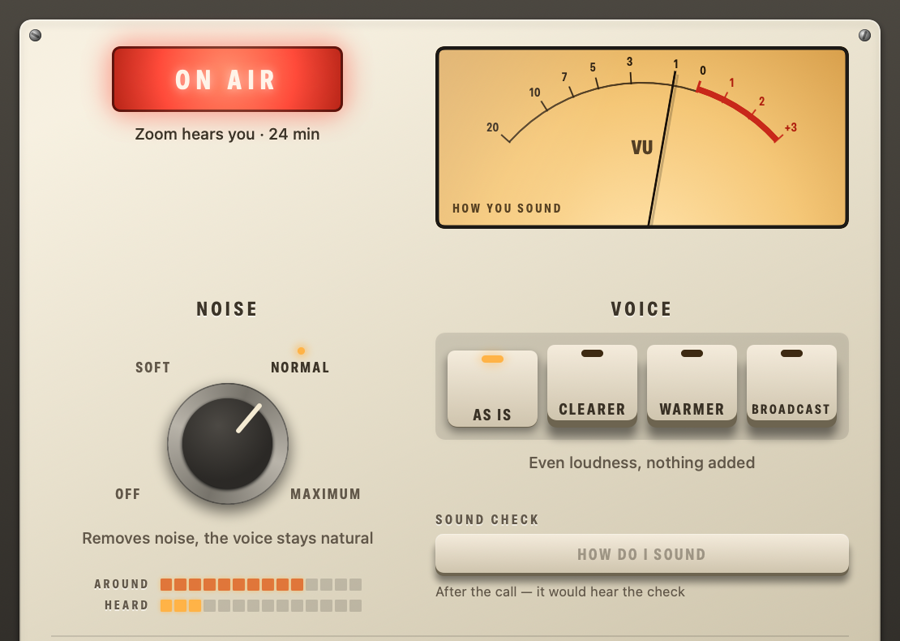
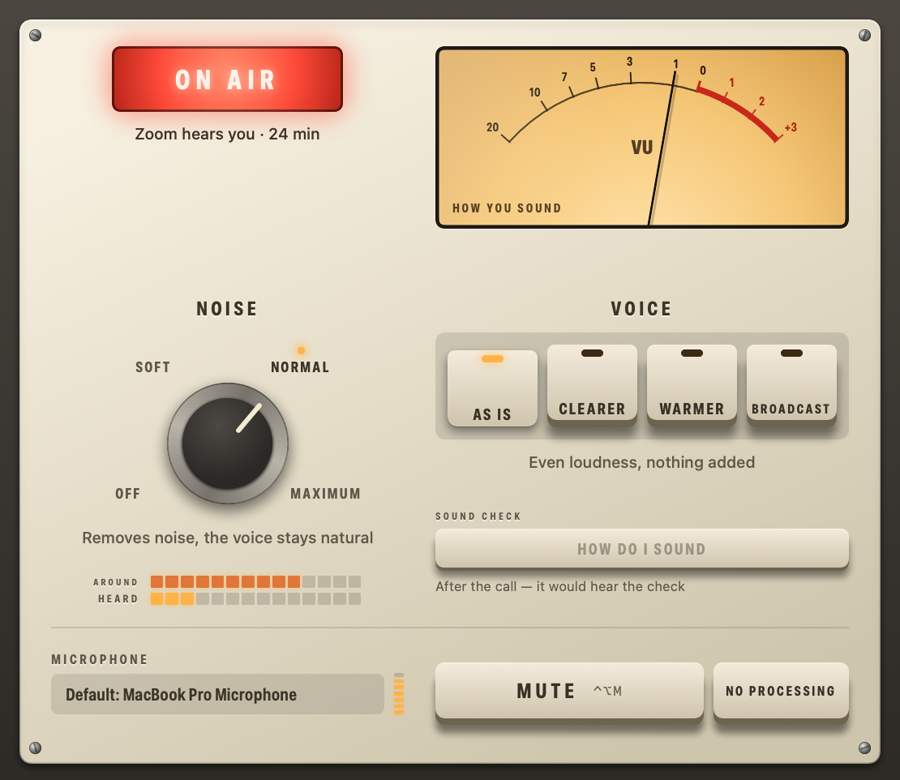
Wide link previews, the whole app panel, and app-sized keys

diff --git a/index.html b/index.html
@@ -3,11 +3,18 @@
 <head>
 <meta charset="utf-8">
 <meta name="viewport" content="width=device-width, initial-scale=1, viewport-fit=cover">
-<meta name="description" content="Kelvin is a microphone for calls on your Mac: it removes background noise and gives your voice a warm, close tone in Zoom, Meet and Teams.">
-<meta property="og:title" content="Kelvin: sound 2700K">
-<meta property="og:description" content="Kelvin is a microphone for calls on your Mac: it removes background noise and gives your voice a warm, close tone in Zoom, Meet and Teams.">
-<meta property="og:image" content="https://kelvinmic.app/app-panel.png">
+<meta name="description" content="A microphone for calls on your Mac. Removes background noise and gives your voice a warm, close tone in Zoom, Meet and Teams.">
+<meta property="og:type" content="website">
+<meta property="og:site_name" content="Kelvin">
+<meta property="og:title" content="Kelvin: Sound 2700K">
+<meta property="og:description" content="A microphone for calls on your Mac. Removes background noise and gives your voice a warm, close tone in Zoom, Meet and Teams.">
+<meta property="og:image" content="https://kelvinmic.app/og-image.png">
+<meta property="og:image:width" content="1280">
+<meta property="og:image:height" content="640">
+<meta property="og:image:alt" content="Kelvin: Sound 2700K. A microphone for calls on your Mac.">
 <meta property="og:url" content="https://kelvinmic.app/">
+<!-- A wide card: Telegram, X and Slack show the banner full width instead of a thumbnail. -->
+<meta name="twitter:card" content="summary_large_image">
 <meta name="theme-color" content="#14110e">
 <link rel="icon" type="image/png" href="kelvin-icon.png">
 <link rel="apple-touch-icon" href="kelvin-icon.png">
@@ -99,7 +106,7 @@ button, input { font: inherit; color: inherit }
   .hero .lede { font-size: 17px }
 }
 /* Narrow phones: Play on its own row, so "Laptop mic" fits its key. */
-@media (max-width: 400px) { .demo .controls { flex-direction: column } .demo .playbtn { justify-content: center } }
+@media (max-width: 400px) { .demo .controls { flex-direction: column } .demo .playbtn { justify-content: center } .demo .keys { grid-auto-columns: minmax(0, 1fr) } }
 
 /* Enamel plate */
 .plate { position: relative; background: linear-gradient(170deg, #f6f0e1, var(--enamel) 40%, var(--enamel-lo)); color: var(--ink);
@@ -127,8 +134,8 @@ button, input { font: inherit; color: inherit }
 .on .bulb { background: radial-gradient(circle at 40% 35%, #fff3e0, var(--amber) 45%, #d9620f); box-shadow: inset 0 0 0 2px #0005, 0 0 14px #ffb347cc }
 
 /* The app's keys: raised cream keys with an indicator slot that glows when chosen */
-.keys { flex: 1; min-width: 0; display: grid; grid-auto-flow: column; grid-auto-columns: minmax(0, 1fr); gap: 6px; padding: 5px; border-radius: 10px; background: #0000001c; box-shadow: inset 0 1px 3px #0003 }
-.keys button { appearance: none; border: 0; cursor: pointer; min-height: 48px; padding: 14px 4px 6px; border-radius: 7px; position: relative;
+.keys { flex: 0 1 auto; min-width: 0; display: grid; grid-auto-flow: column; grid-auto-columns: minmax(96px, 136px); gap: 6px; padding: 5px; border-radius: 10px; background: #0000001c; box-shadow: inset 0 1px 3px #0003 }
+.keys button { appearance: none; border: 0; cursor: pointer; min-height: 54px; padding: 18px 8px 8px; border-radius: 7px; position: relative;
   background: linear-gradient(#fbf7ec, #e6dcc6); color: var(--ink); box-shadow: inset 0 1px 0 #fff, 0 3px 0 #b9ad93, 0 4px 6px #0003;
   font: 700 12px/1.1 var(--body); letter-spacing: .1em; text-transform: uppercase; white-space: nowrap; overflow: hidden; text-overflow: ellipsis }
 .keys button::before { content: ""; position: absolute; top: 6px; left: 50%; width: 22px; height: 5px; margin-left: -11px; border-radius: 3px; background: #3b2a1a }
@@ -159,12 +166,13 @@ button, input { font: inherit; color: inherit }
 .voicebox .temp { grid-column: 1 / -1; height: 6px; border-radius: 3px; box-shadow: inset 0 0 0 1px #0000002a; transition: background .3s }
 .voicebox .desc { font-size: 16px; line-height: 1.45 }
 .voicebox .desc b { display: block; font: 700 13px/1.2 var(--body); letter-spacing: .14em; text-transform: uppercase; margin-bottom: 4px }
-.controls.wrap { flex-direction: column } .controls.wrap .playbtn { justify-content: center }
+.controls.wrap { flex-direction: column; align-items: flex-start }
 @media (max-width: 880px) { .voice-sec { grid-template-columns: minmax(0, 1fr); gap: 32px } }
 @media (max-width: 480px) {
   .voicebox .readout { grid-template-columns: minmax(0, 1fr); min-height: 0 }
   .voicebox .k { font-size: 52px }
   .voicebox .keys { grid-auto-flow: row; grid-template-columns: repeat(2, minmax(0, 1fr)) }
+  .controls.wrap { align-items: stretch } .controls.wrap .playbtn { justify-content: center }
 }
 details { margin-top: 28px; border: 1px solid var(--line); border-radius: 10px; padding: 0 16px }
 summary { cursor: pointer; padding-block: 14px; font: 700 14px/1.2 var(--body); letter-spacing: .14em; text-transform: uppercase; color: var(--text-dim) }
@@ -246,7 +254,7 @@ summary { cursor: pointer; padding-block: 14px; font: 700 14px/1.2 var(--body); 
       </ol>
     </div>
     <figure class="shot">
-      <img src="app-panel.png" alt="Kelvin's panel: an ON AIR lamp saying Zoom hears you, a VU meter labelled How you sound, a Noise knob and four Voice keys" width="900" height="641" loading="lazy">
+      <img src="app-panel.png" alt="Kelvin's panel: an ON AIR lamp saying Zoom hears you, a VU meter labelled How you sound, a Noise knob and four Voice keys" width="900" height="780" loading="lazy">
       <figcaption>Two controls. Noise: Off, Soft, Normal, Maximum. Voice: As is, Clearer, Warmer, Broadcast.</figcaption>
     </figure>
   </section>
